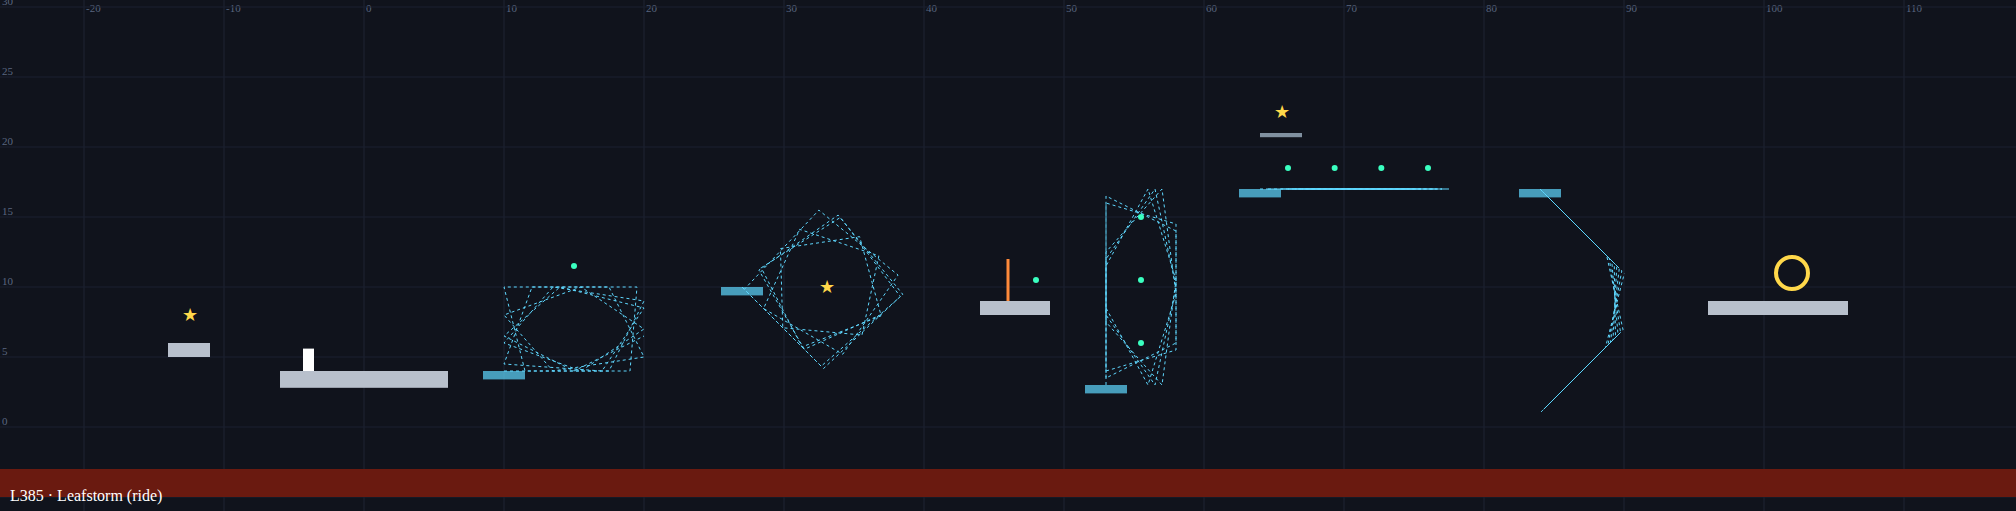
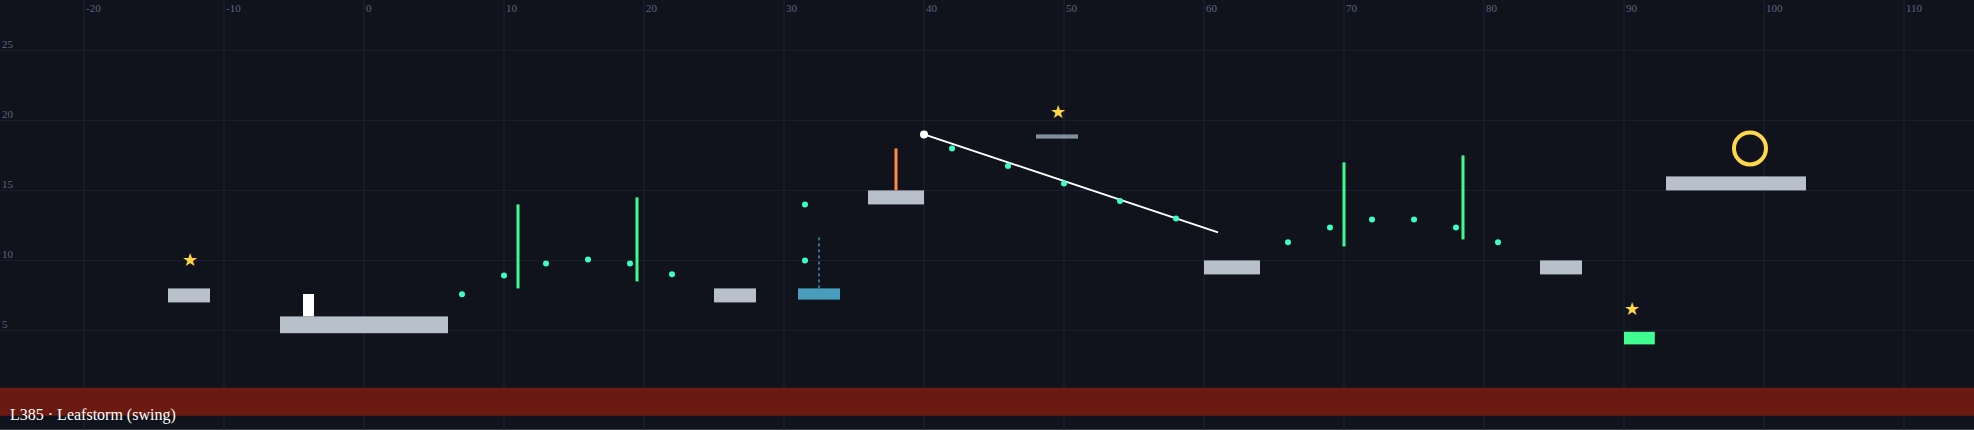
Remake levels 385, 399, 407 and 411
All four relied on waiting and luck: tangled slow loop rides (385), and
time-warp pads that randomly sped up, froze or reversed while carrying
you through lightning and sparks you couldn't time (399, 411), plus a
wall of overlapping blades (407). Rebuilt with steady, readable movers:
- 385 Leafstorm: vine swings, a lifting leaf, a long silk zip line and a
  mushroom bounce through the canopy.
- 399 Eon Express: a steady express pad with one spark to hop, a
  minute-hand sweeper and a pendulum crossing.
- 407 Grandfather Works: one blade over open floor, two turning gear
  wheels, escapement pendulums and a single minute hand.
- 411 Rewind Rapids: backwards-flowing belts to sprint up between steady
  slides and lifts; no random lightning.
Solver-validated, swept (safe checkpoints) and render-checked.

diff --git a/public/js/levels/chronos.js b/public/js/levels/chronos.js
@@ -262,25 +262,26 @@ export default [
 
   // 9 ── one warp-pad, one long track: when time reverses it drags you back through the hazards you just dodged
   L('Eon Express', 'ride', (b) => {
+    // the clockwork express runs to a steady timetable: hop the spark it carries you through,
+    // step off at the platform, then beat a sweeping minute hand and a grandfather pendulum
     b.start(-6, 0, 12);
-    b.loop([[9, 0], [28, 0], [38, 7], [56, 7], [64, 2], [80, 2]], { loop: false, speed: 3.5, w: 3.2, warp: true });
-    b.hazard('spark', 19.5, 0.3, 0.8, 1.3);                 // jump the spark as the pad carries you through
-    b.hazard('spark', 44, 9.7, 4, 0.5);                     // ...and don't jump under this one
-    b.beam('lightning', 60, 2, { P: 3.2, on: 0.8 });
-    b.thin(31, 10.5, 3); b.shard(32.5, 12.3);
-    b.thin(60, -1, 3); b.shard(61.5, 0.8);
-    b.cells(12, 1.4, 26, 1.4, 4); b.cells(40, 8.4, 54, 8.4, 4); b.cells(66, 3.4, 78, 3.4, 3);
-    b.plat(84, 2, 6);
-    b.checkpoint(87, 2);
-    b.loop([[95, 2], [95, 14], [110, 14], [110, 6], [122, 6]], { loop: false, speed: 3.5, w: 3, warp: true });
-    b.enemy('flyer', 102, 17, { ax: 3, ay: 0.6, T: 3 });
-    b.shard(102.5, 18.3);
-    b.rect(126, 0, 1.4, 6.5); b.turret(126.7, 7.2, -1, { P: 2.2 });
-    b.cells(96.4, 5, 96.4, 12, 3); b.cells(112, 7.4, 120, 7.4, 3);
-    b.plat(129, 6, 8);
-    b.wrecker(48, 17, 5, { amp: 40, T: 3.2 });
-    b.wrecker(72, 12, 6, { amp: 40, T: 3, phase: 0.5 });
-    b.goal(134, 6);
+    b.loop([[9, 0], [30, 0], [38, 6], [54, 6]], { loop: false, speed: 5, w: 3.4 });
+    b.hazard('spark', 21, 0.3, 0.8, 1.2);                   // low spark on the line: jump it as you pass
+    b.thin(32, 6.5, 3); b.shard(33.5, 8.2);                 // jump off the climbing pad to grab it
+    b.cells(12, 1.4, 28, 1.4, 5); b.cells(40, 7.4, 52, 7.4, 4);
+    b.plat(58, 6, 5);
+    b.checkpoint(60, 6);
+    b.plat(65, 6, 14);
+    b.sweeper(72, 6.6, 3.4, { omega: 70 });                 // a minute hand sweeping the floor: hop it
+    b.cells(66, 7.4, 78, 7.4, 4);
+    b.pendulum(86, 16, 8, { amp: 32, T: 3.8 });
+    b.plat(92, 8, 4);
+    b.thin(88, 12, 3); b.shard(89.5, 13.7);
+    b.slide(98, 8, 110, 12, { T: 3.2, w: 3 });
+    b.plat(114, 12, 9);
+    b.goal(120, 12);
+    b.shard(104, 15.5);
+    b.arc(92, 8, 114, 12, 6, 3);
   }),
 
   // 10 ── the Time Rift opens: sand that crumbles behind you, springs, a chimney sprint, no waiting
@@ -479,27 +480,27 @@ export default [
 
   // 17 ── the grandfather works: wrecking pendulums sweep the factory floor, a clock hand blocks the aisle, then ride pendulum bobs up to the gear loft
   L('Grandfather Works', 'machine', (b) => {
+    // inside a grandfather clock: a pendulum blade over the floor, gear wheels to climb, escapement
+    // pendulums to ride, and a minute hand sweeping the top shelf
     b.start(-6, 0, 12);
-    b.plat(8, 0, 28);
-    b.wrecker(15, 9, 6.6, { amp: 50, T: 3.2 });
-    b.wrecker(24, 9, 6.6, { amp: 50, T: 3.2, phase: 0.5 });
-    b.sweeper(32, 4.4, 3.4, { omega: 55, both: true });     // a minute hand across the aisle: cross while it lies flat
-    b.cells(10, 1.4, 34, 1.4, 6);
-    b.thin(39, -3, 3); b.shard(40.5, -1.2);
-    b.pendulum(42, 11, 8, { amp: 40, T: 4.4 });
-    b.plat(48, 2, 8);
-    b.checkpoint(51, 2);
-    b.pendulum(61, 15, 9, { amp: 38, T: 4.6, phase: 0.3 });
-    b.plat(68, 7, 4);
-    b.pendulum(78, 20, 10, { amp: 40, T: 4.8 });
-    b.plat(84, 11, 14);
-    b.wrecker(90, 20, 7, { amp: 50, T: 3.4 });
-    b.thin(86, 17, 4); b.shard(88, 18.8);
-    b.sweeper(97, 15.2, 3.2, { omega: -60, both: true });
-    b.pendulum(108, 24, 10, { amp: 40, T: 4.4, phase: 0.5 });
-    b.plat(113, 14, 10);
-    b.goal(119, 14);
-    b.cells(60, 6, 64, 6, 3); b.cells(80, 12.5, 96, 12.5, 4); b.shard(70, 11.2);
+    b.plat(8, 0, 12);
+    b.wrecker(14, 8, 6, { amp: 45, T: 3.4 });               // one pendulum blade, plenty of floor to time it
+    b.cells(9, 1.4, 19, 1.4, 4);
+    b.ferris(26, 5, 4, { n: 4, omega: 0.7 });               // a turning gear wheel up to the first shelf
+    b.plat(33, 7, 5);
+    b.checkpoint(35, 7);
+    b.pendulum(42, 16, 8, { amp: 34, T: 4 });                // ride the escapement across
+    b.plat(48, 9, 4);
+    b.thin(38, 11.5, 3); b.shard(39.5, 13.2);
+    b.ferris(57, 12, 4.5, { n: 5, omega: -0.6 });            // the counter-wheel turns the other way
+    b.plat(64, 15, 14);
+    b.sweeper(71, 15.6, 3.2, { omega: 60 });                 // the minute hand: hop it as it passes
+    b.cells(65, 16.4, 77, 16.4, 4);
+    b.pendulum(86, 24, 9, { amp: 32, T: 4.2, phase: 0.4 });
+    b.plat(92, 16, 10);
+    b.goal(98, 16);
+    b.shard(57, 18.5); b.shard(86, 13.5);
+    b.cells(24, 9, 28, 9, 2); b.cells(55, 16, 59, 16, 2);
   }),
 
   // 18 ── moments drift past like a river: ride ring-chunks along stacked time-streams of different speeds and hop between lanes
@@ -582,27 +583,23 @@ export default [
   }),
   // 21 ── a cascade of short, fast warp pads: each one turns back on you, so jump to the next before it rewinds
   L('Rewind Rapids', 'ride', (b) => {
+    // time runs backwards here: every belt flows the wrong way, so sprint upstream between steady rides
     b.start(-6, 0, 12);
-    b.slide(10, 0, 20, 0, { T: 2.4, w: 2.6, warp: true });
-    b.slide(24, 1, 34, 1, { T: 2.2, w: 2.6, warp: true, phase: 0.5 });
-    b.thin(27.5, 5, 3); b.shard(29, 6.8);
-    b.slide(38, 2, 38, 8, { T: 2, w: 2.6, warp: true });
-    b.cells(10, 1.4, 20, 1.4, 3); b.cells(24, 2.4, 34, 2.4, 3); b.cells(38, 4, 38, 8, 2);
-    b.plat(42, 8, 4);
-    b.checkpoint(44, 8);
-    b.slide(50, 8, 62, 6, { T: 2.4, w: 2.6, warp: true });
-    b.beam('lightning', 57, 6.5, { P: 3, on: 0.7 });
-    b.thin(55, 1.5, 3); b.shard(56.5, 3.3);
-    b.slide(66, 6, 78, 8, { T: 2, w: 2.6, warp: true, phase: 0.25 });
-    b.beam('lightning', 72, 7.5, { P: 2.6, on: 0.7, off: 1.3 });
-    b.enemy('flyer', 74, 12, { ax: 3, ay: 0.8, T: 2.4 });
-    b.slide(82, 8, 82, 14, { T: 2.2, w: 2.6, warp: true });
-    b.shard(82, 18.6);
-    b.cells(50, 9.4, 62, 7.4, 4); b.cells(66, 7.4, 78, 9.4, 4);
-    b.plat(86, 14, 8);
-    b.sweeper(44, 14, 3.8, { omega: 50 });
-    b.pendulum(82, 24, 8, { amp: 25, T: 4 });
-    b.goal(91, 14);
+    b.conveyor(8, 0, 14, -4);
+    b.slide(26, 1, 36, 1, { T: 2.4, w: 2.8 });
+    b.plat(40, 3, 4);
+    b.conveyor(46, 3, 12, -5);
+    b.enemy('walker', 49, 3, { range: 6, speed: 1.4 });     // stomp it or hop it against the flow
+    b.plat(60, 5, 4);
+    b.checkpoint(62, 5);
+    b.slide(67, 5, 67, 12, { T: 2.2, w: 2.6 });             // a steady lift
+    b.conveyor(71, 12, 12, -5);
+    b.thin(75, 15.5, 3); b.shard(76.5, 17.2);
+    b.slide(87, 12, 97, 14, { T: 2.4, w: 2.6 });
+    b.plat(101, 14, 9);
+    b.goal(106, 14);
+    b.shard(31, 5.5); b.shard(54, 7.5);
+    b.cells(9, 1.4, 21, 1.4, 4); b.cells(27, 2.4, 35, 2.4, 3); b.cells(47, 4.4, 57, 4.4, 4); b.cells(72, 13.4, 82, 13.4, 4); b.cells(88, 13.4, 96, 15.4, 3);
   }),
 
   // 22 ── ancient geysers erupt on a timer; inside the light-gravity bands their plumes throw you twice as high

diff --git a/public/js/levels/biolumina.js b/public/js/levels/biolumina.js
@@ -596,21 +596,25 @@ export default [
   }),
 
   // 385 ── a storm of drifting leaves, each tracing its own loop: box, diamond, tall oval; read the paths and hop between them
-  L('Leafstorm', 'ride', (b) => {
-    b.start(-6, 4, 12);
-    b.loop([[10, 4], [20, 4], [20, 10], [10, 10]], { speed: 3, w: 3 });
-    b.loop([[27, 10], [33, 4], [39, 10], [33, 16]], { speed: 3.2, w: 3 });
-    b.shard(33, 10);                                       // in the eye of the diamond
-    b.plat(44, 9, 5);
-    b.checkpoint(46, 9);
-    b.loop([[53, 3], [53, 17], [58, 17], [58, 3]], { speed: 3.4, w: 3 });
-    b.loop([[64, 17], [78, 17]], { speed: 3, loop: false, w: 3 });
-    b.loop([[84, 17], [92, 9], [84, 1]], { speed: 3, loop: false, w: 3 });
-    b.thin(64, 21, 3); b.shard(65.5, 22.5);
-    b.plat(96, 9, 10);
-    b.goal(102, 9);
-    b.cells(15, 11.5, 15, 11.5, 1); b.cells(48, 10.5, 48, 10.5, 1); b.cells(55.5, 6, 55.5, 15, 3); b.cells(66, 18.5, 76, 18.5, 4);
-    b.plat(-14, 6, 3); b.shard(-12.5, 8);
+  L('Leafstorm', 'swing', (b) => {
+    // a gale tears through the canopy: swing the vines, ride a lifting leaf, zip down the silk, bounce out
+    b.start(-6, 6, 12);
+    b.plat(-14, 8, 3); b.shard(-12.5, 10);
+    b.vine(11, 14, 6); b.vine(19.5, 14.5, 6);
+    b.plat(25, 8, 3);
+    b.floater(31, 8, 3, { rise: 7, speed: 2.6 });          // a big leaf lifts you into the canopy
+    b.plat(36, 15, 4);
+    b.checkpoint(38, 15);
+    b.zip(40, 19, 61, 12, { speed: 7 });                   // spider silk down through the storm
+    b.thin(48, 19, 3); b.shard(49.5, 20.6);                // hop off the silk near the top for this one
+    b.plat(60, 10, 4);
+    b.vine(70, 17, 6); b.vine(78.5, 17.5, 6);
+    b.plat(84, 10, 3);
+    b.mushroom(90, 4, 9);                                  // drop to the glowing cap below and ride it up
+    b.shard(90.5, 6.5);
+    b.plat(93, 16, 10);
+    b.goal(99, 16);
+    b.arc(4, 6, 25, 8, 6, 3); b.cells(31.5, 10, 31.5, 14, 2); b.cells(42, 18, 58, 13, 5); b.arc(63, 10, 84, 10, 6, 3);
   }),
 
   // 386 ── one fallen giant, three passes: run right through the hollow, press the glowroot, come back left on the upper deck, then out a knot-hole and along the bark
